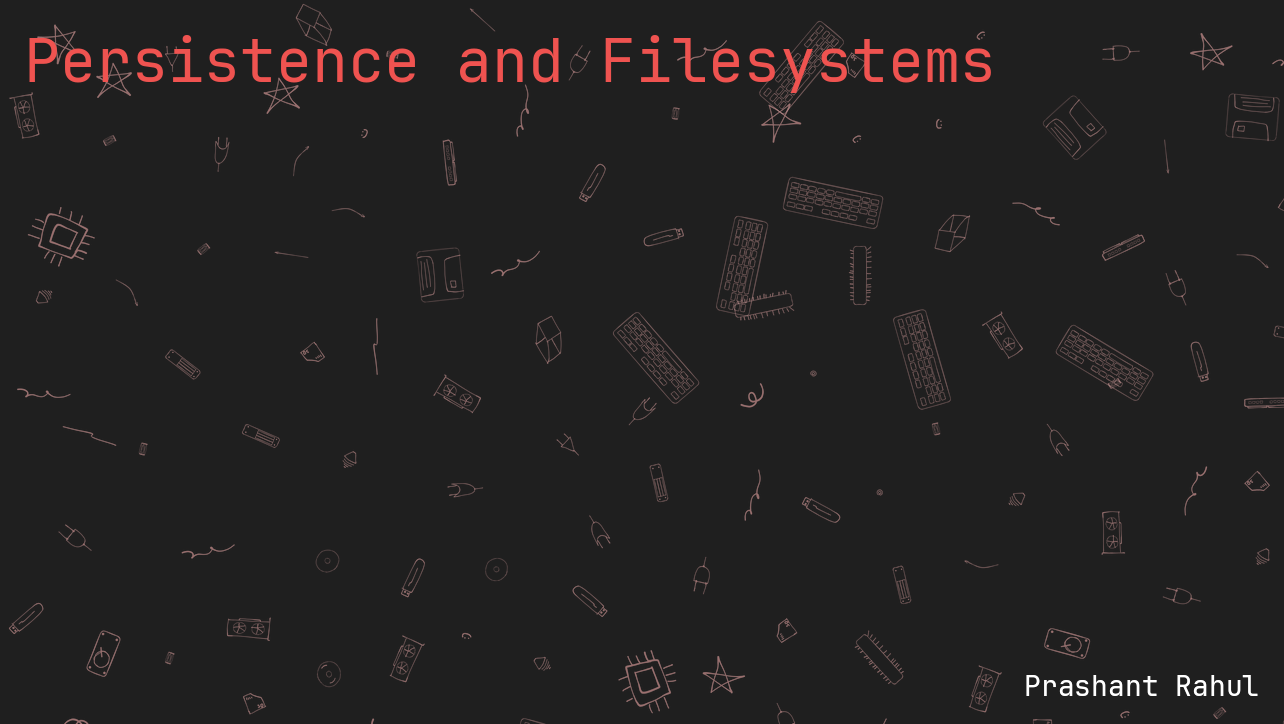
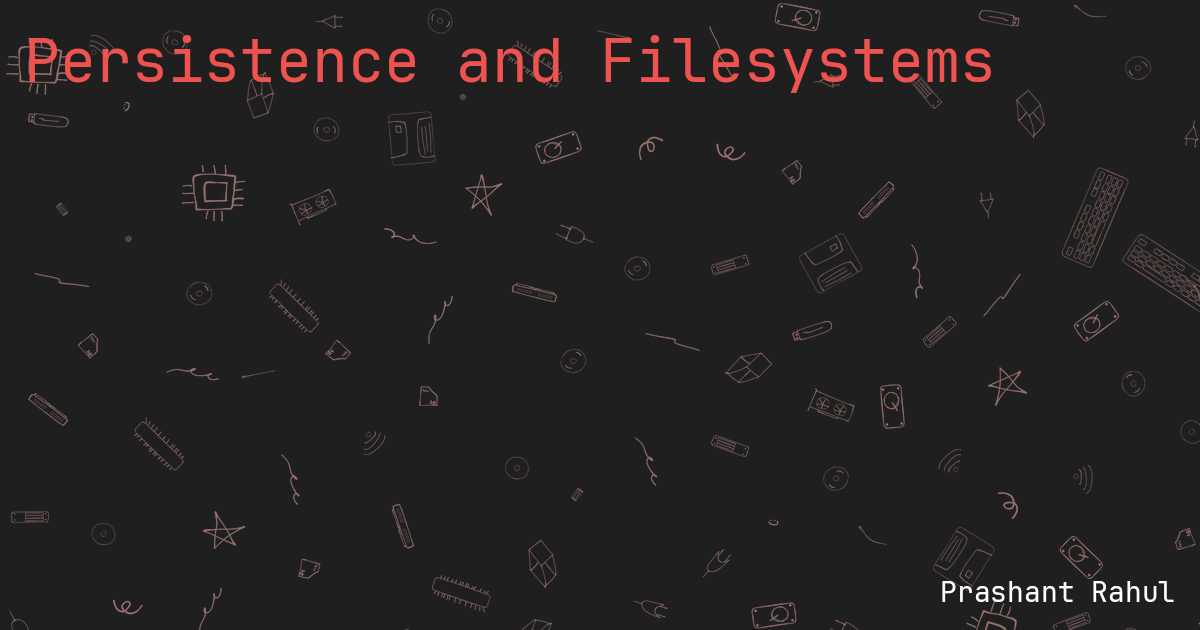
fix: change post thumbnail size

diff --git a/scripts/gen_meta_images.py b/scripts/gen_meta_images.py
@@ -10,7 +10,7 @@ from poisson_disc import PoissonDisc
 
 from PIL import Image, ImageDraw, ImageFont, ImageOps, ImageEnhance
 
-IMG_WIDTH, IMG_HEIGHT = 1284, 724
+IMG_WIDTH, IMG_HEIGHT = 1200, 630
 
 PRIMARY_TEXT_COLOR = "#ef5350"
 SECONDARY_TEXT_COLOR = "#ffffff77"